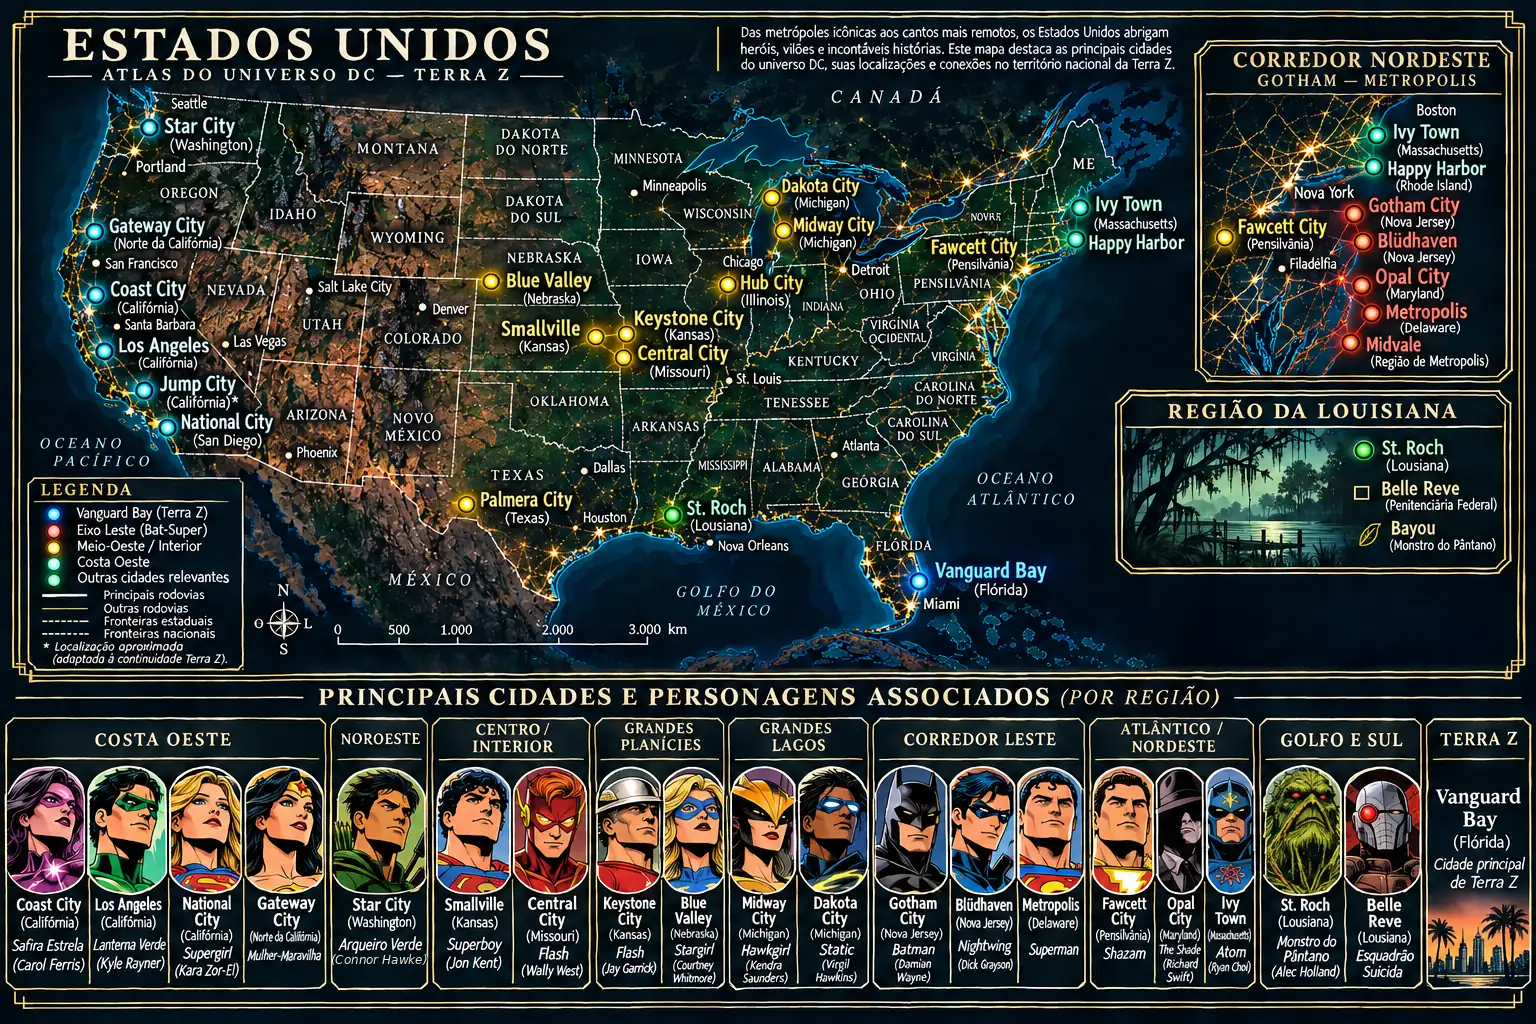
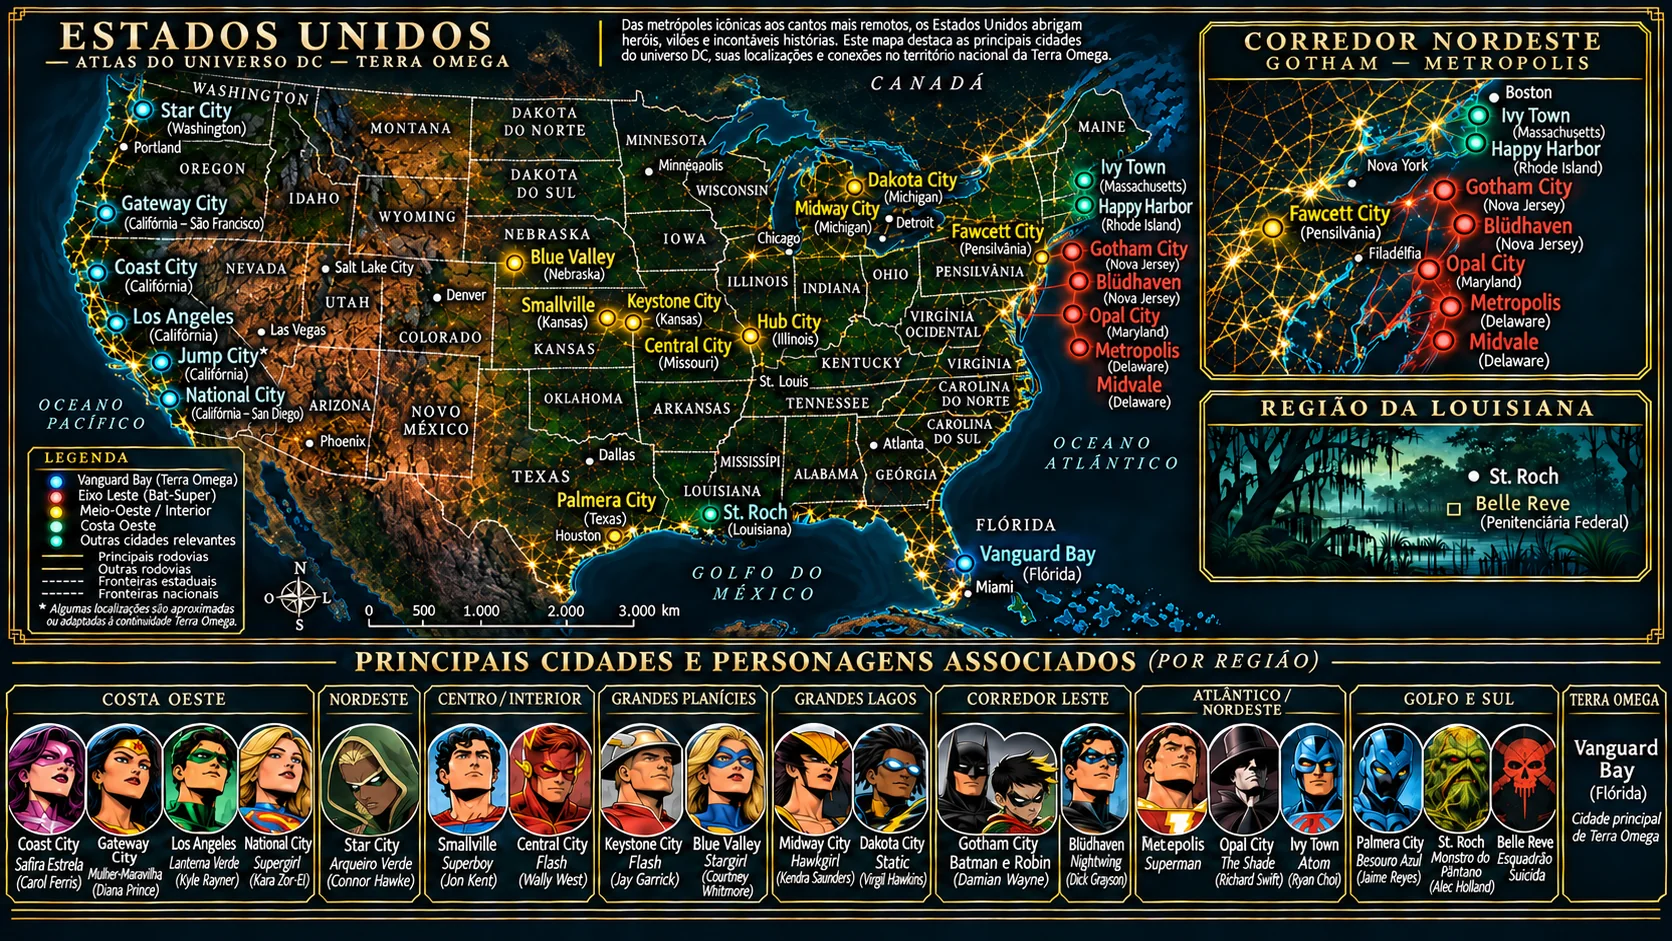
feat: atualizar mapa nacional da Terra Omega

diff --git a/index.html b/index.html
@@ -1157,7 +1157,7 @@ UNIVERSO OBLÍVIO · TERRA OMEGA · DOSSIÊ CENTRAL · v2.0 · JAN 2027
 <div class="section-title">🌎 Estados Unidos · Cidades Externas</div>
 <p class="map-intro">Referência nacional de Terra Omega, mundo central do Universo Oblívio. Vanguard Bay aparece no sul da Flórida, enquanto as quinze cidades externas estão posicionadas conforme as equivalências geográficas definidas para o cenário.</p>
 <figure class="photo map-showcase map-showcase-national">
-<img data-src="images/maps/estados-unidos-cidades-externas.svg" alt="Mapa dos Estados Unidos de Terra Omega, no Universo Oblívio, com Vanguard Bay e as quinze cidades externas de Gotham City a Jump City" loading="lazy" decoding="async" fetchpriority="low" onerror="this.parentElement.classList.add('missing')">
+<img data-src="images/maps/estados-unidos-cidades-externas.webp" alt="Mapa dos Estados Unidos de Terra Omega, no Universo Oblívio, com Vanguard Bay e as quinze cidades externas de Gotham City a Jump City" loading="lazy" decoding="async" fetchpriority="low" onerror="this.parentElement.classList.add('missing')">
 <figcaption>Estados Unidos · Vanguard Bay e Cidades Externas · Referência geográfica do cenário</figcaption>
 </figure>
 <div class="map-note"><strong>Cidades representadas:</strong> Gotham City, Metrópolis, Blüdhaven, Opal City, Midvale, Ivy Town, Midway City, Fawcett City, Central City, Keystone City, Smallville, Star City, Coast City, Gateway City e Jump City.</div>
